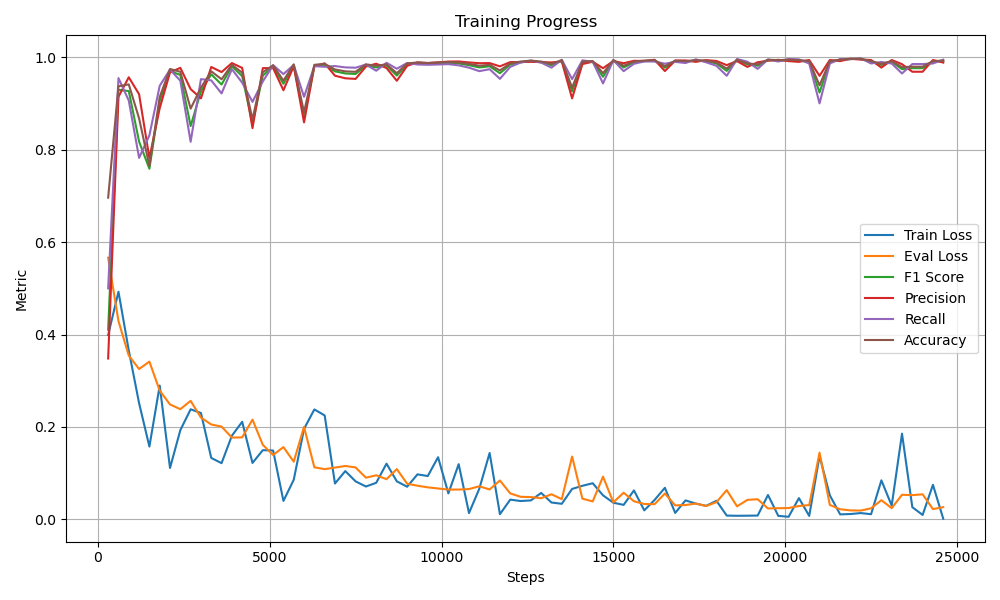
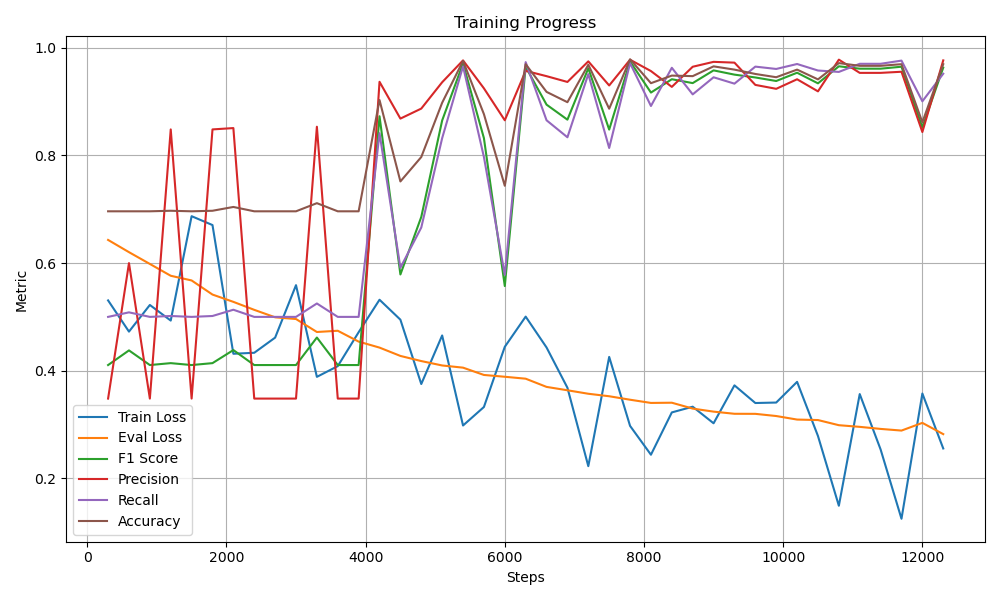
week3

diff --git a/week2/src/trainer.py b/week2/src/trainer.py
@@ -94,7 +94,9 @@ class Trainer:
             loss, _ = self.compute_loss(batch)
             
             # Backward pass
-            # TODO : backward pass
+            self.optimizer.zero_grad()
+            loss.backward()
+            self.optimizer.step()
 
             total_loss += loss.item()
 
@@ -131,6 +133,7 @@ class Trainer:
         targets = batch['targets'].to(self.device)
 
         outputs = self.model(inputs)
+        
         loss = self.loss_fn(outputs, targets.unsqueeze(1))
 
         return loss, outputs

diff --git a/week2/src/model/mlp.py b/week2/src/model/mlp.py
@@ -15,5 +15,8 @@ class MLPModel(nn.Module):
         self.sigmoid = nn.Sigmoid()
 
     def forward(self, x):
-        # TODO : forward pass
+        x = self.fc1(x)
+        x = self.relu(x)
+        x = self.fc2(x)
+        x = self.sigmoid(x)
         return x
